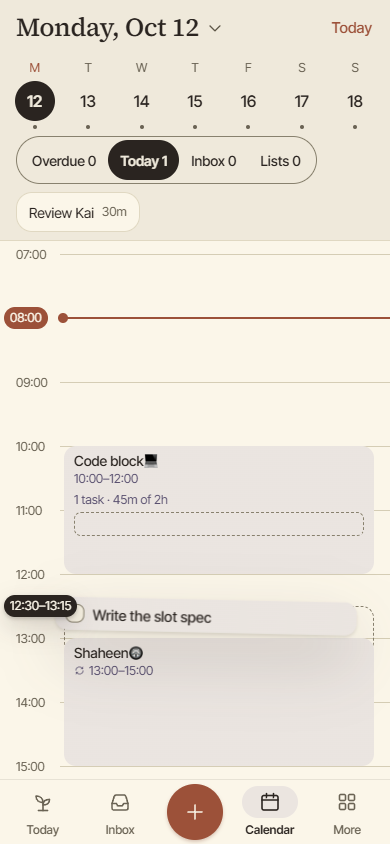
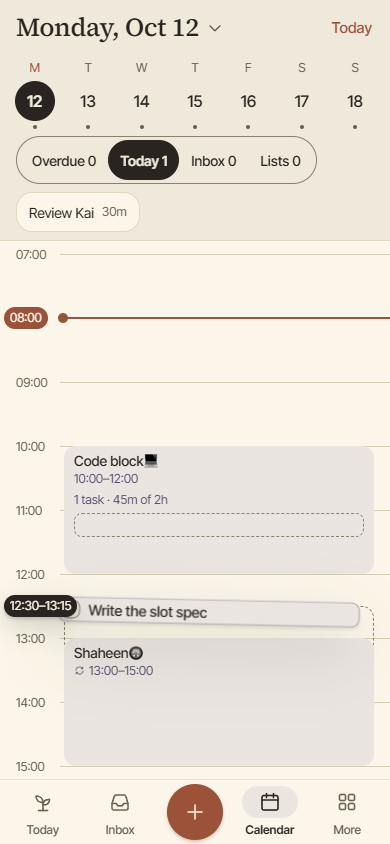
docs(log): slot-outline step 3 - look A built; before/after shots; f3 harness waits for the cache save

Changed region(s): [[0.1538, 0.7085, 0.5538, 0.7393], [0.8923, 0.7085, 0.9231, 0.7393]]

diff --git a/docs/log/INDEX.md b/docs/log/INDEX.md
@@ -152,3 +152,4 @@
 - 2026-10-16 13:02 · handoff · slots-ux (Kai: "something wrong with the logic of the time slots, how do I remove a task"): every slot flow mapped and run; 8 bugs fixed at the root — Link a task… on a slot, More → Event, Repeat none/changed/split and the all-day band no longer lose held tasks (reseat/releaseRow, Undo); a held row click/right-click opened the slot; the phone sheet hid the slot; Today lower-cased / missed "in <slot> · time". Ways out: drag the row (rail / empty time / another slot), hover ×, phone sheet "Out of the slot", all with Undo. 2236 tests, lint 0, build, ds 0 new; time-slots 110/110, cal-rail-drop 33, event-detail 70 (a3 updated), cal-wave2 83, calendar-phone 176 — `2026-10-16-1302-slots-ux-handoff.md` (branch claude/slots-ux)
 - 2026-10-16 16:20 · handoff · mcp-slots (slots-ux "Still open"): MCP edit_event no longer loses a Time slot's held tasks — repeat set/changed/ended → each to its day's occurrence else out, kind → event and all-day → out, logged source mcp, `changed` says so; occurrenceOn shared in _shared/slots.ts (app + MCP). 2239 tests, lint 0, build; rehearsal 38906682523 green, mcp-full 321/321 (+31) — `2026-10-16-1620-mcp-slots-handoff.md` (branch claude/mcp-slots)
 - 2026-10-16 17:05 · handoff · slot-outline (Kai: "can't we drag and drop it and give it its own outline without making it look weird?"): look options page design-export/Slot task outline.html — A soft cards / B quiet rows / C pills, desktop week + phone day, day + Night Garden, hover × and drag-out, This one / Copy my pick (waiting for Kai's pick, nothing styled yet); phone drag built: a hold on a held row lifts THAT task (slot header still lifts the slot), empty time → its own block, another slot → into it, strip/off grid → out, own slot → nothing, all with Undo (slots.heldDrop); 2240 tests, lint 0, build, ds 0 new; time-slots 138/138 (+28), calendar-phone 176, cal-wave2 83 — `2026-10-16-1705-slot-outline.md` (branch claude/slot-outline)
+- 2026-10-16 17:55 · handoff · slot-outline step 3 (Kai picked A): every task in a Time slot is its own soft card (the slot's wash, 1px accent edge, 8px corners, small gap) on desktop + phone, day + Night Garden; hover × kept, dragged-out card keeps its outline and its place stays dashed, the desktop drag copy now follows the pointer over the grid and undoes the 125% zoom; 2240 tests, lint 0, build, ds 0 new; time-slots 152/152 (+14 card checks; f3's reload flake fixed in the harness), calendar-phone 176, cal-wave2 83, event-detail 70; before/after in assets/slot-outline — `2026-10-16-1705-slot-outline.md` (branch claude/slot-outline)

diff --git a/docs/log/2026-10-16-1705-slot-outline.md b/docs/log/2026-10-16-1705-slot-outline.md
@@ -47,3 +47,22 @@ One thing the pictures show honestly: on the phone, a 2-hour slot (128px) cuts o
 
 - Dropping on the strip always means "out of the slot". It does not follow the strip's segment (on the desktop, the rail's Today section also dates the task today). The spec asked for exactly this.
 - Back (Esc) while a finger still drags a task has no handler. Letting go or a cancelled touch puts the task back.
+
+## Step 3: Kai picked A, now built (soft cards)
+
+Kai: "Slot tasks: A". Every task held in a slot is now its own soft card, on the desktop grid and the phone grid, by day and in Night Garden. Each card has the slot's own wash (the block's `--kf-ev-fill` / `--pc-fill`), a 1px edge in the block's accent at 35%, 8px corners, and a 4px gap (3px on the phone). Tokens only.
+
+- Hover (desktop): the × still shows, and the edge deepens to 70%.
+- Done tasks keep the sage box and the strike.
+- Dragged out: the card's place stays as a dashed outline (desktop `data-lifted` from the Draggable's dragstart/dragend; phone `.is-gone`). The card itself follows the pointer with its own edge and the popover shadow.
+- On the desktop, FullCalendar used to hide its copy of the row over the grid. Now it stays visible beside the drop placeholder, as the picture showed (`mirror.setIsVisible` is pinned on).
+- That copy also undoes the interface zoom (like `.fc` does). Before, at 125% it sat far off the pointer.
+- Files: `CalendarGrid.css`, `CalendarGrid.tsx` (heldRow), `phoneCalendar.css`.
+- Before/after shots, desktop + phone, day + night, rest, hover and drag: `assets/slot-outline/before-*`, `after-*`.
+
+Gates: vitest 2240, lint 0, build OK, ds:check 0 new.
+
+- time-slots: **152/152**. That includes 14 new card checks: o1 desktop (day + night card, gap, done, hover, dashed place, the card under the pointer, a drop back on its own slot writes nothing) and o2 phone (day + night card, dashed place, lifted card).
+- calendar-phone: 176/176. cal-wave2: 83/83. event-detail: 70/70.
+- f3's last check was flaky before this change too (1 failure in 6 runs with the mirror change taken out). The drop always landed. The reload to Tasks restored the query cache the persister had saved before the drop (its save is throttled to about 1s) and treated it as fresh. The harness now waits 1.5s before the reload: 8/8, then the full run passed.
+- types.ts / settings.ts: no duplicated lines after the merge (a fast-forward to 3030dce6).
